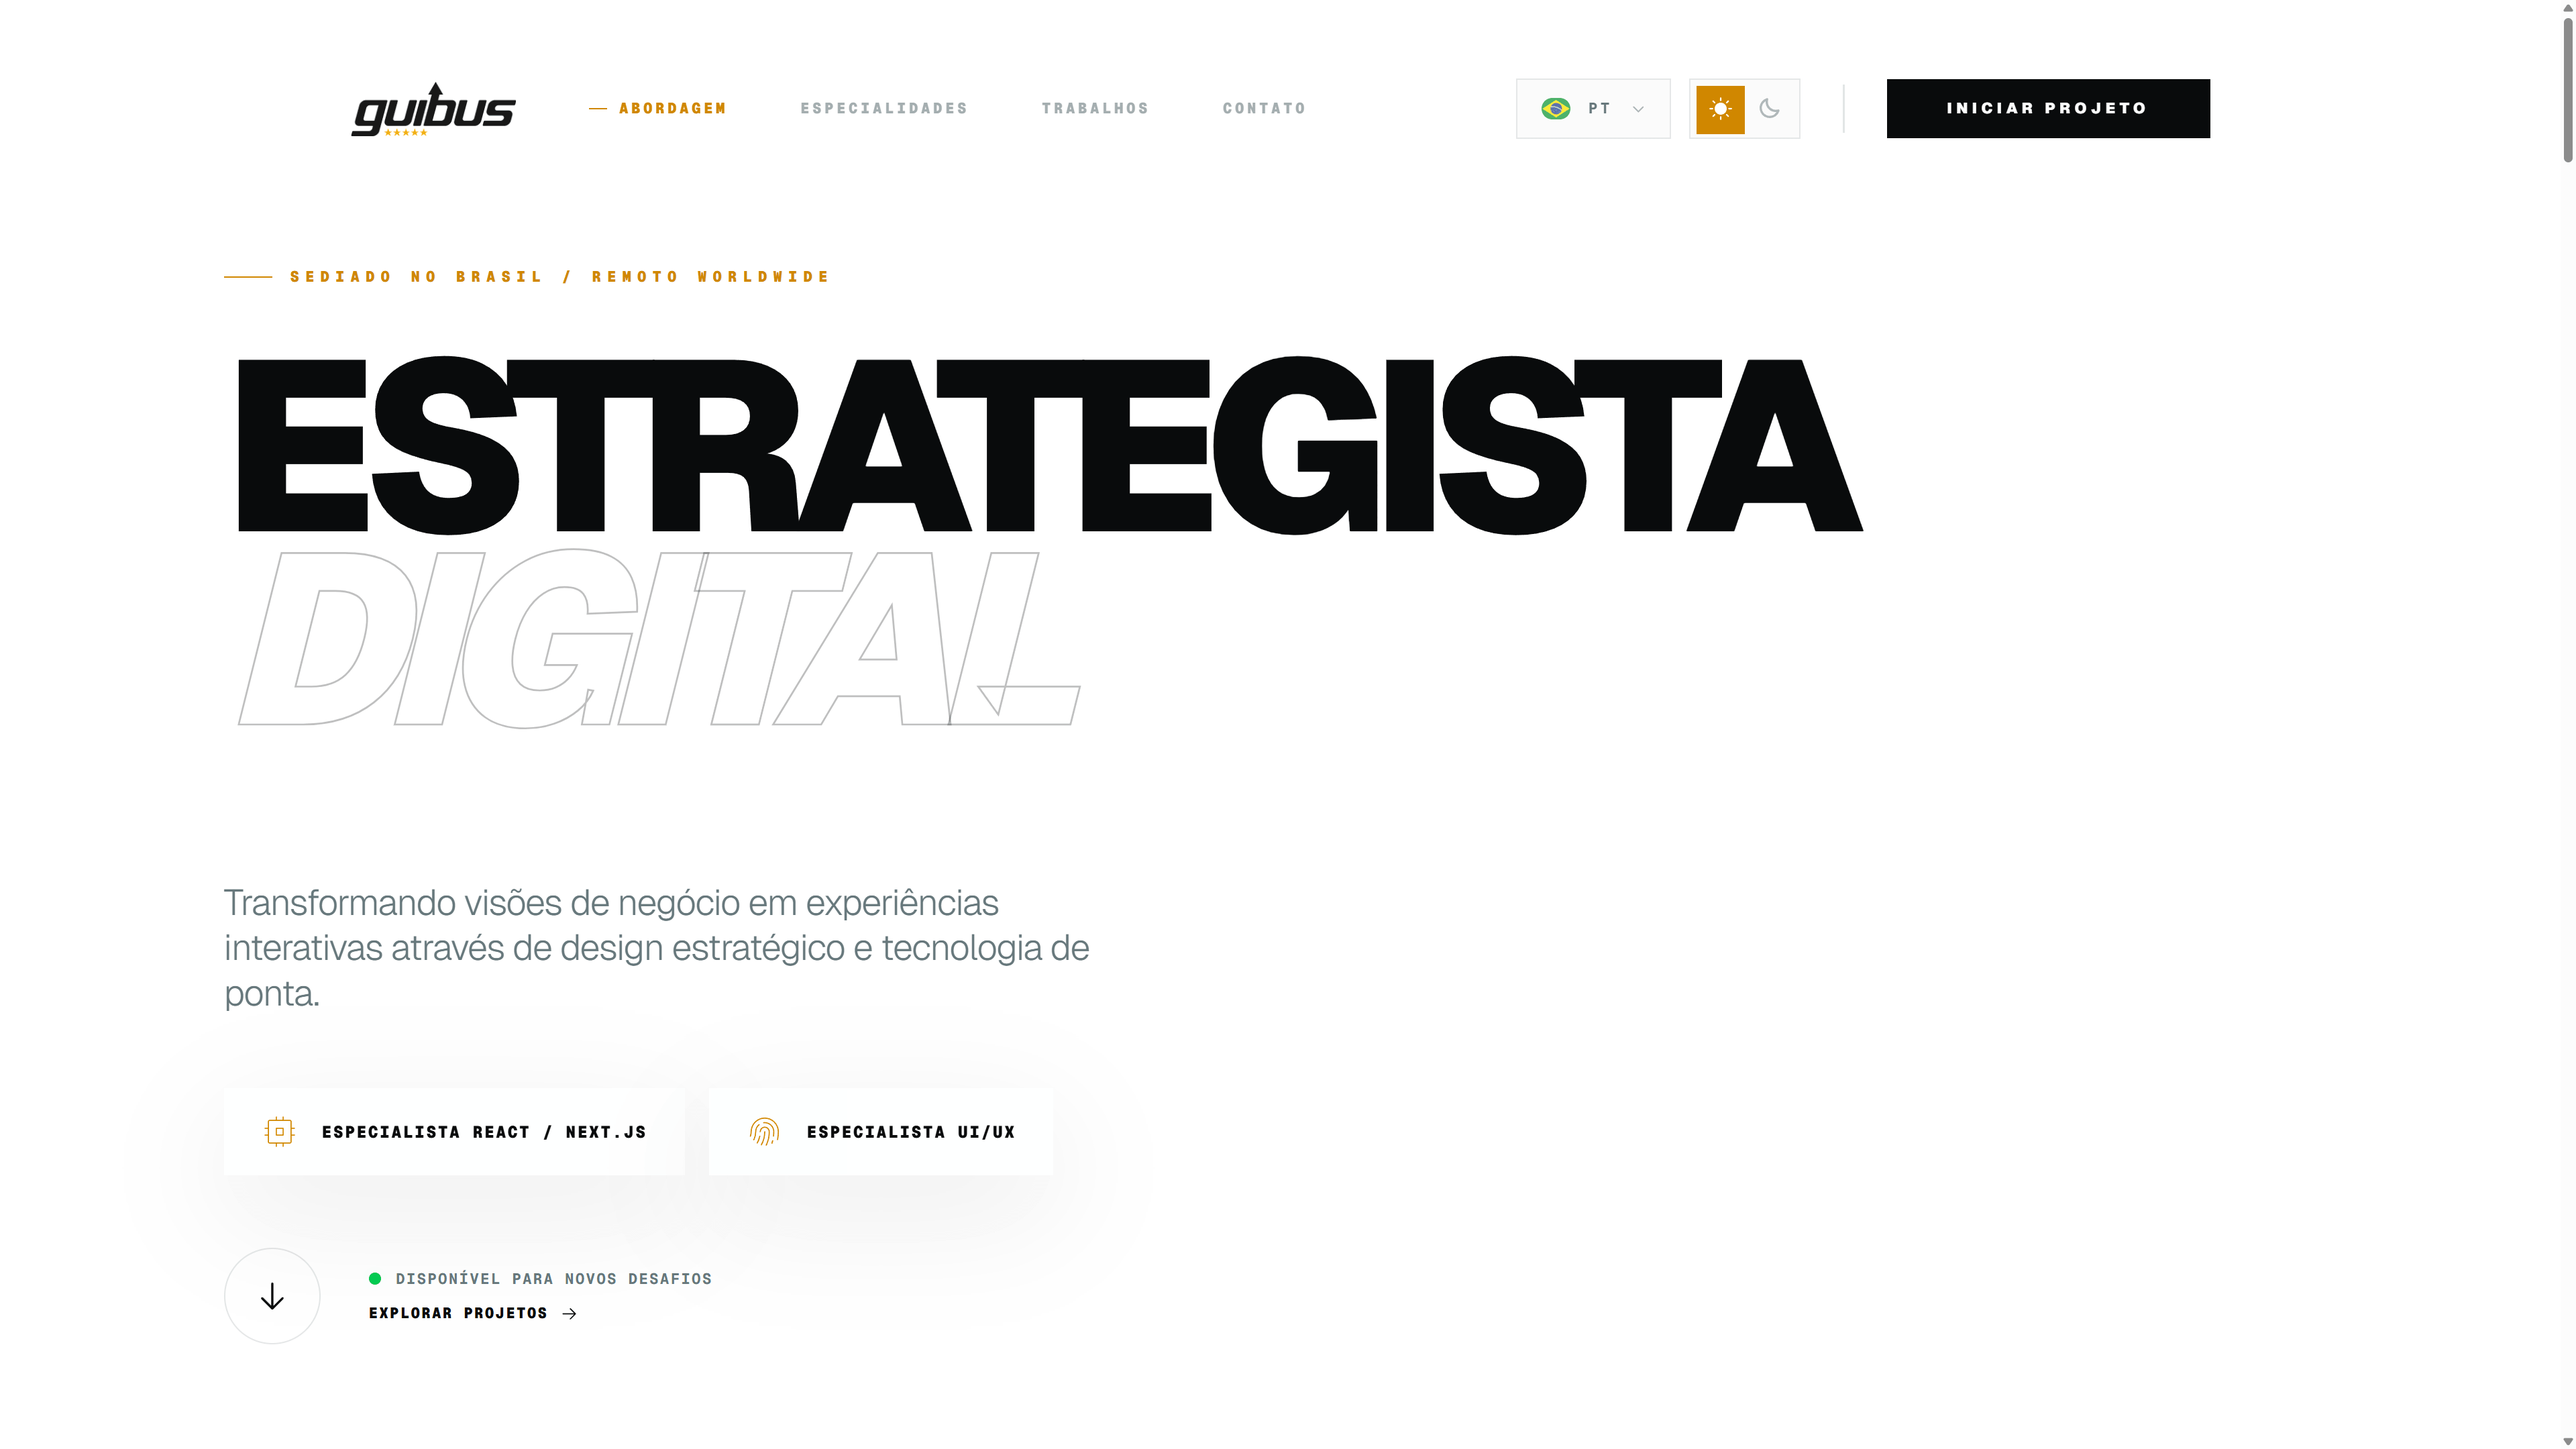
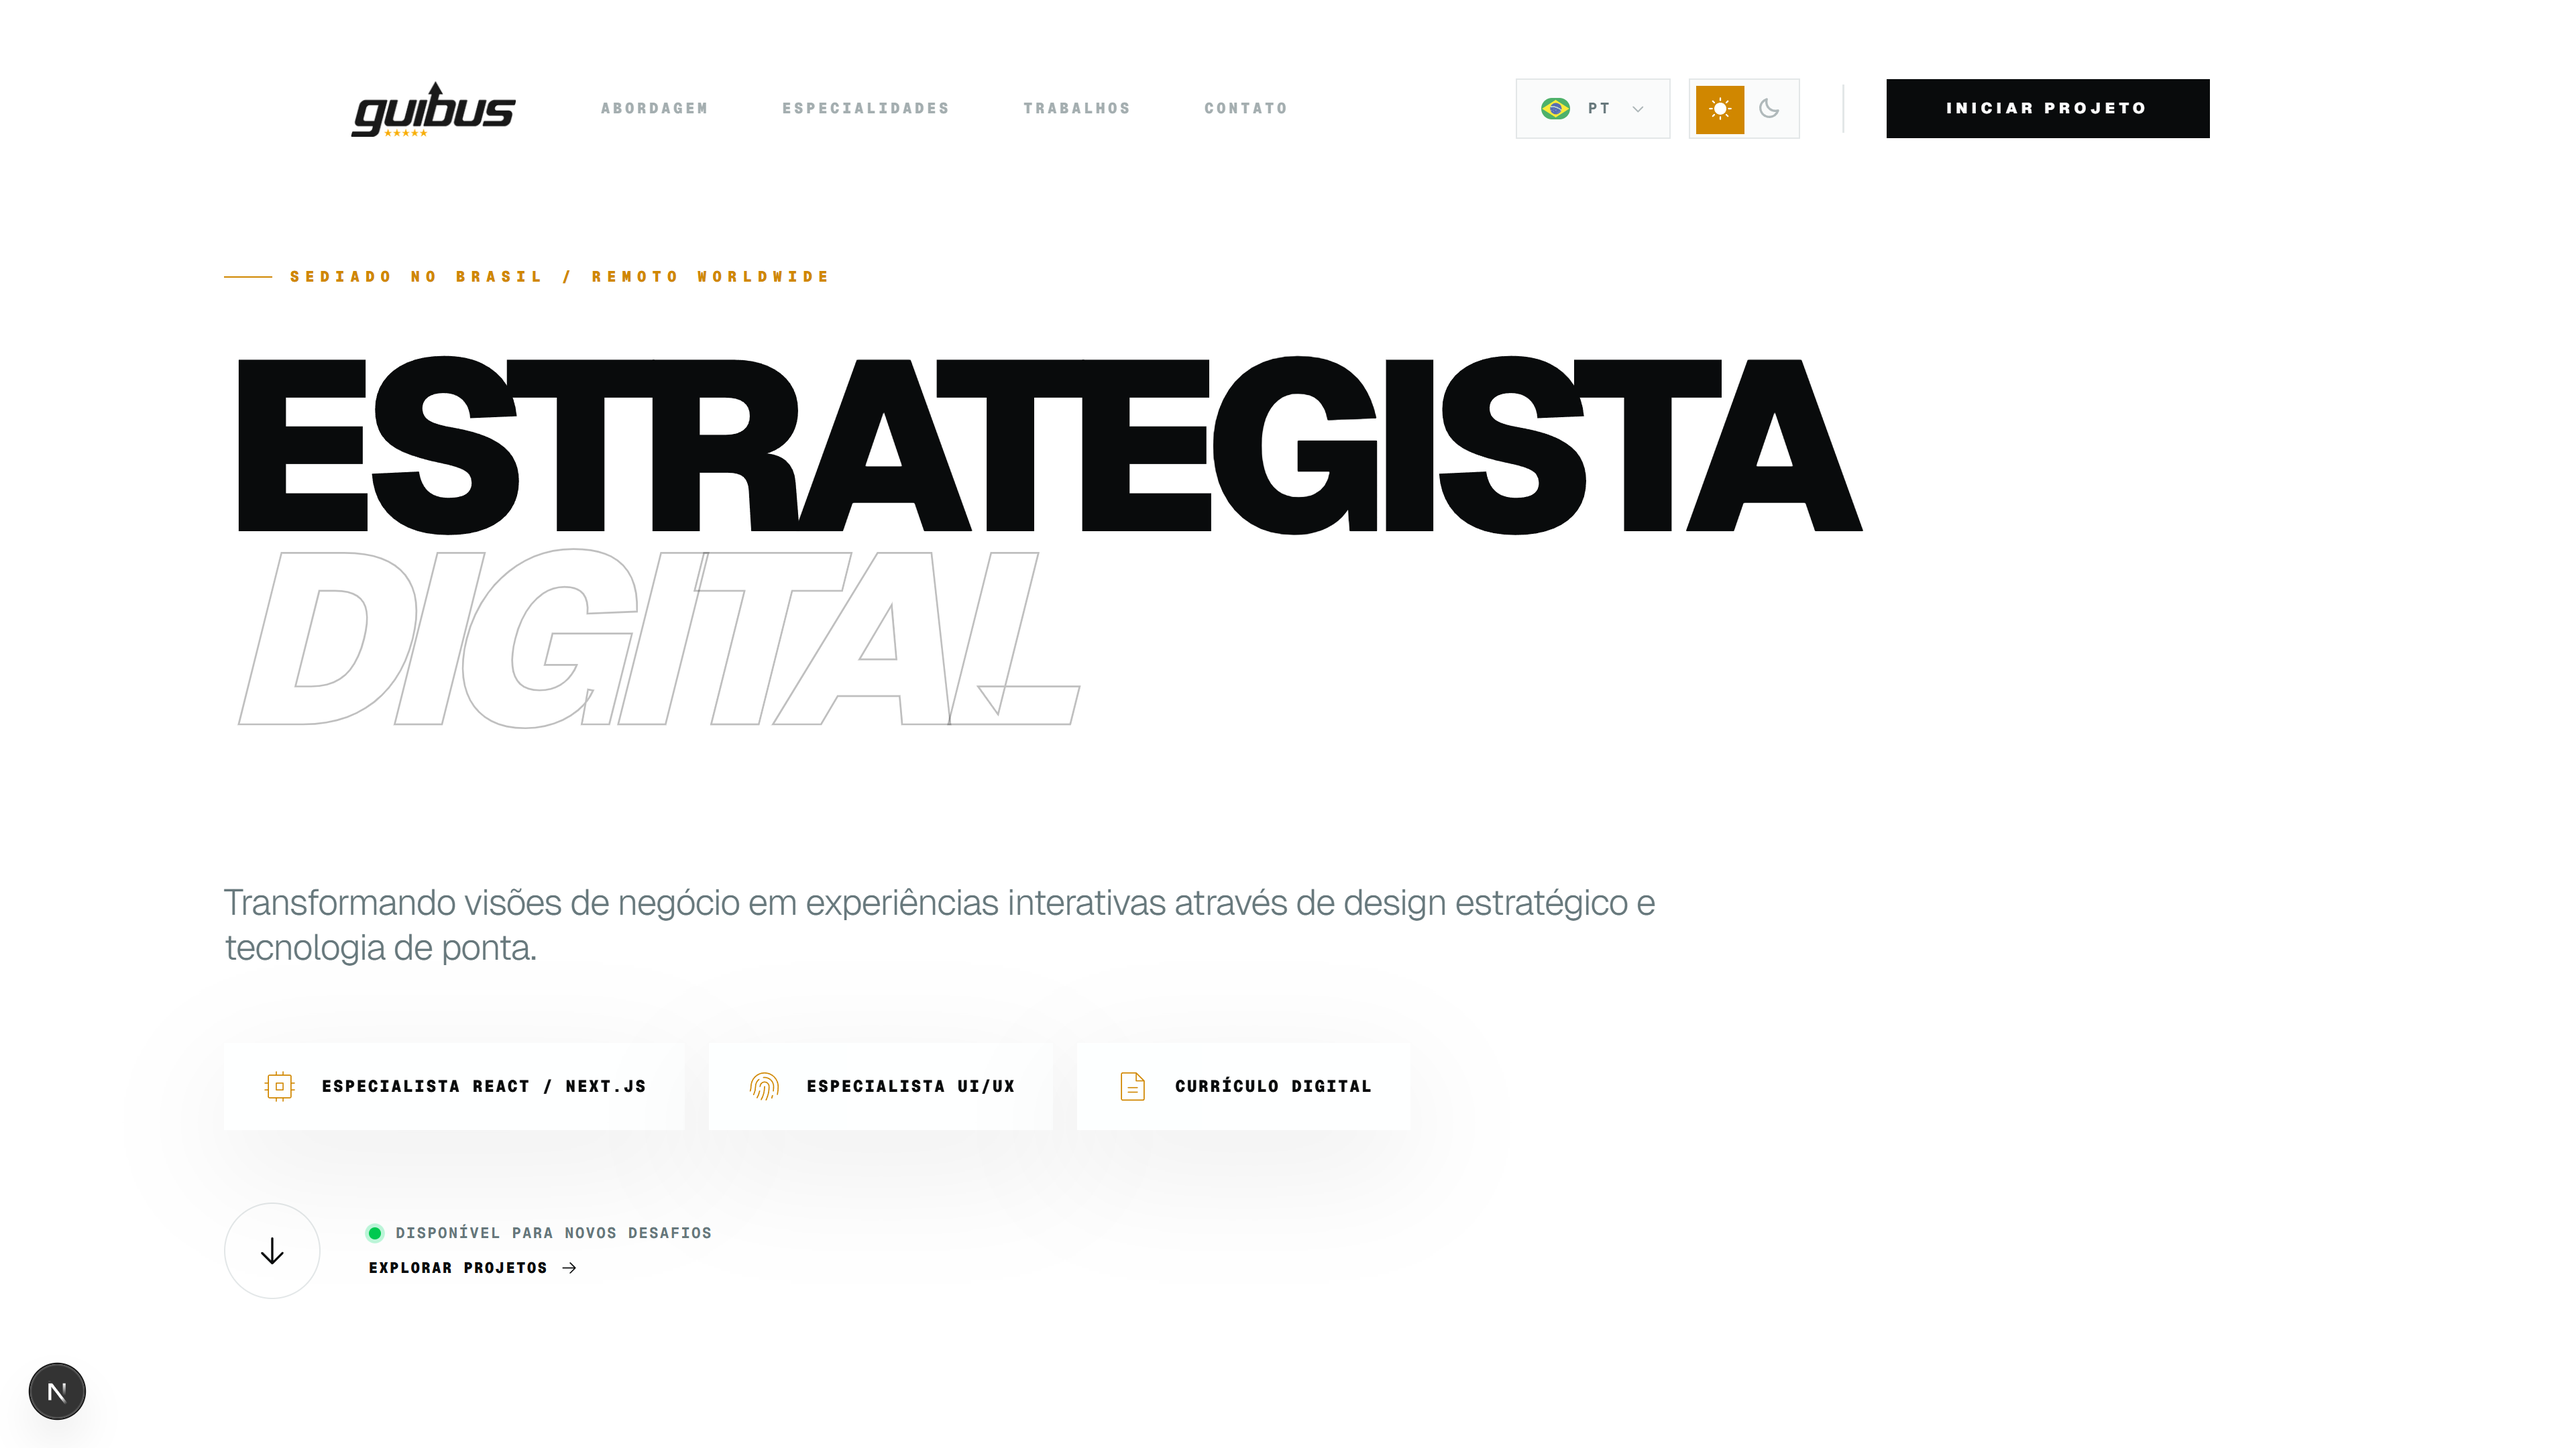
feat: add digital cv link to hero and contact sections

diff --git a/src/components/sections/heroSection.tsx b/src/components/sections/heroSection.tsx
@@ -2,6 +2,7 @@ import {
   FingerprintIcon,
   CpuIcon,
   ArrowRightIcon,
+  FileTextIcon,
 } from "@phosphor-icons/react/dist/ssr";
 import { getTranslations } from "next-intl/server";
 import {
@@ -39,7 +40,7 @@ export async function HeroSection() {
             </HeroTitleAnimation>
 
             <HeroDescriptionAnimation>
-              <div className="max-w-xl">
+              <div className="max-w-5xl">
                 <p className="text-xl md:text-2xl font-light text-muted-foreground leading-tight tracking-tight mb-12">
                   {t("description")}
                 </p>
@@ -72,6 +73,24 @@ export async function HeroSection() {
                       </span>
                     </div>
                   </div>
+
+                  <Link 
+                    href="https://lume.guibus.dev/pt/share/guilherme-bustamante-frontend" 
+                    target="_blank" 
+                    className="flex items-center gap-4 px-6 py-4 cinematic-card group hover:border-yellow-600/40 transition-all duration-500 relative overflow-hidden"
+                  >
+                    <div className="absolute top-0 left-0 w-full h-0.5 bg-yellow-600/20 -translate-x-full group-hover:translate-x-0 transition-transform duration-700" />
+                    <FileTextIcon
+                      size={24}
+                      weight="thin"
+                      className="text-yellow-600 dark:text-yellow-500 group-hover:scale-110 transition-transform duration-500"
+                    />
+                    <div className="flex flex-col">
+                      <span className="text-[11px] font-mono uppercase tracking-widest font-black">
+                        {t("cv_cta")}
+                      </span>
+                    </div>
+                  </Link>
                 </div>
 
                 <div className="flex items-center gap-8">

diff --git a/src/components/sections/contactSection.tsx b/src/components/sections/contactSection.tsx
@@ -6,6 +6,7 @@ export async function ContactSection() {
   const t = await getTranslations("Contact");
 
   const channels = [
+    { name: t("cv"), value: "Guilherme Bustamante", iconName: "IdentificationCard", href: "https://lume.guibus.dev/pt/share/guilherme-bustamante-frontend" },
     { name: "GitHub", value: "@gui-bus", iconName: "GithubLogo", href: "https://github.com/gui-bus" },
     { name: "LinkedIn", value: "Guilherme Bustamante", iconName: "LinkedinLogo", href: "https://linkedin.com/in/guibus" },
     { name: "Instagram", value: "@guibus.dev", iconName: "InstagramLogo", href: "https://instagram.com/guibus.dev" },

diff --git a/src/components/sections/contactSectionClient.tsx b/src/components/sections/contactSectionClient.tsx
@@ -11,6 +11,7 @@ import {
   LinkedinLogoIcon,
   InstagramLogoIcon,
   EnvelopeSimpleIcon,
+  IdentificationCardIcon,
 } from "@phosphor-icons/react";
 
 const iconsMap: Record<string, Icon> = {
@@ -18,6 +19,7 @@ const iconsMap: Record<string, Icon> = {
   LinkedinLogo: LinkedinLogoIcon,
   InstagramLogo: InstagramLogoIcon,
   EnvelopeSimple: EnvelopeSimpleIcon,
+  IdentificationCard: IdentificationCardIcon,
 };
 
 interface ContactModuleClientProps {
